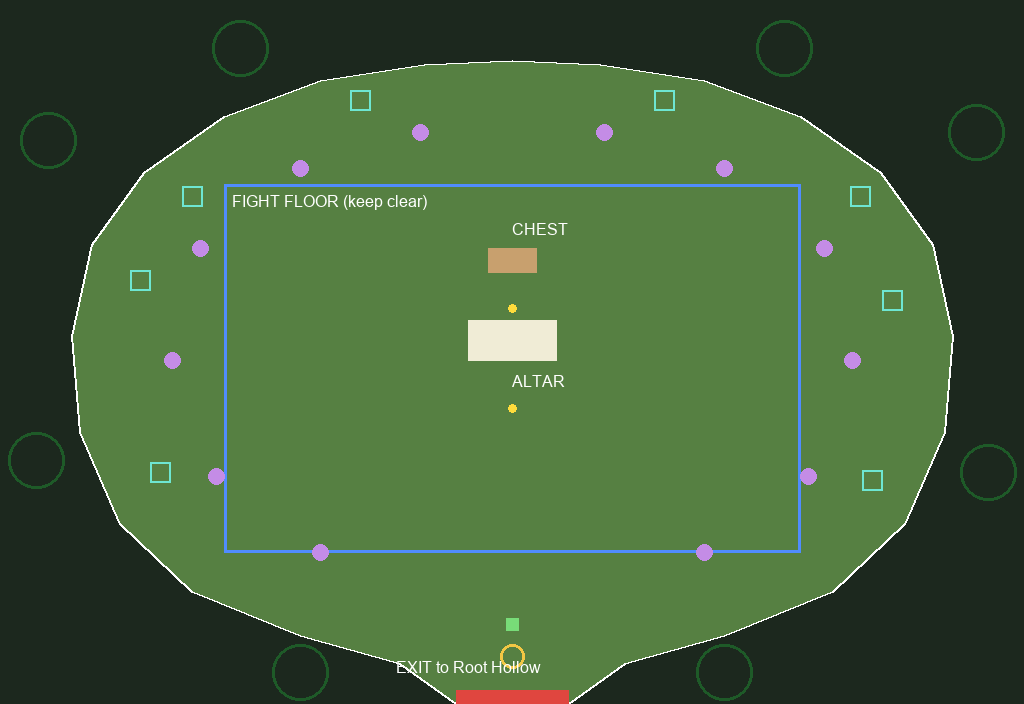
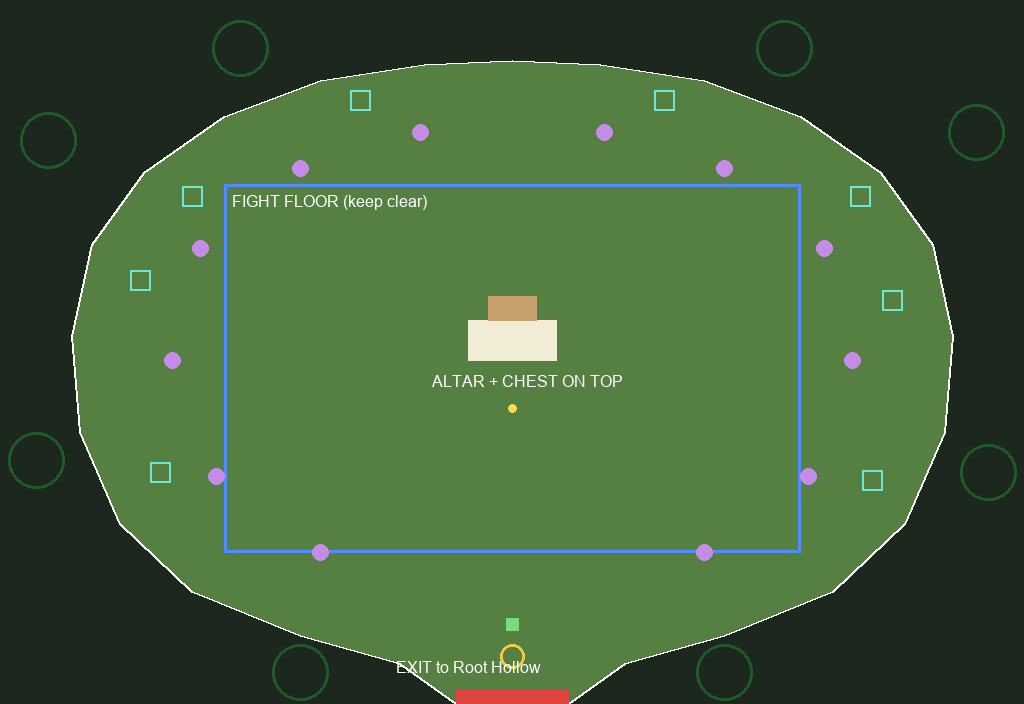
Hollow Trial: the chest sits on top of the altar; one E at the altar starts the trial, then opens the chest

Changed region(s): [[0.4688, 0.3125, 0.5625, 0.4688], [0.4062, 0.5312, 0.625, 0.5625]]

diff --git a/docs/CODEX_TASK_hollow_trial.md b/docs/CODEX_TASK_hollow_trial.md
@@ -12,7 +12,7 @@ Guide: **`docs/previews/hollow_trial_v1/walkable_guide.png`** (2x) and the numbe
 - **One way in and out:** the bottom edge, x 228-284 (the hero arrives from Root Hollow walking north and enters at the bottom). No other exit: it is a dead end, surrounded by forest.
 - **Walkable clearing:** a broad rounded clearing (outline in `layout.json`), about 440x320, dirt and worn grass with old flagstones near the centre. The **fight floor [112, 92, 288x184] stays completely open**: flush ground cover only, nothing that hides a gold or red warning (Boar charges cross it; Warden lines are 150 px long).
 - **Altar** in the middle, feet at (256, 180), base about 44x20: an old rune-stone altar, waist high, with a socket ring on top. Two states: **dark** (rune grooves dull) and **lit** (rune grooves teal-white, a soft upward glow). **No gold and no red** (combat cue colours), and keep the lit state teal so it never reads as a warning.
-- **Chest** just north of the altar, feet at (256, 136), base about 24x12: an old root-bound chest, **closed** and **open** states, same canvas and anchor. It can reuse the forest chest style if it fits.
+- **Chest ON TOP of the altar** (owner, 2026-10-31): an old root-bound chest, about 24x12, sitting on the altar's top. **closed** and **open** states, same canvas and anchor. Its anchor is at the altar's base line, feet (256, 181) (one pixel below the altar's feet so it always draws in front of the altar), so the canvas includes the altar's height under the chest. The hero uses both from the altar's stand (256, 204): E starts the trial before a win and opens the chest after it.
 - **Rim:** many **glowing rocks** (8 slots, teal rune light like the Root Hollow stones), **bushes** between them, **trees outside the outline** (8 slots) framing the room, roots and ferns at the edges. Spacious inside, dense outside.
 - **Entry seal:** the knot of roots that already closes Root Hollow's shortcut (`root_hollow_barrier_closed/open`) is reused at this room's entry: closed while a wave is alive, open otherwise. If it does not fit the bottom edge, propose a matching variant.
 
@@ -29,16 +29,16 @@ Guide: **`docs/previews/hollow_trial_v1/walkable_guide.png`** (2x) and the numbe
    - Trial won: the altar lights fully (lit state), a column of teal light, then the chest is ready (a faint shimmer on its lock).
    - Chest open: the existing chest-open effect, then the existing **Aspect reward card** (`item_received` kind `aspect`).
    - Trial failed (hero falls): the altar dims, the rune circle fades.
-5. **UI**: a wave banner ("WAVE 1 / 3", "WAVE 2 / 3", "FINAL WAVE"), "TRIAL COMPLETE", a small "mobs left" readout in the existing fight chip style, the altar hint ("E  Begin the trial", only while idle), the chest hint after a win. Same UI kit and fonts as the rest.
+5. **UI**: a wave banner ("WAVE 1 / 3", "WAVE 2 / 3", "FINAL WAVE"), "TRIAL COMPLETE", a small "mobs left" readout in the existing fight chip style, the altar hint ("E  Begin the trial" while idle, "E  Open the chest" after a win, nothing during a try). Same UI kit and fonts as the rest.
 6. **Sound**: altar activate, entry roots close/open, spawn warning, wave start (low horn or drum), wave clear chime, trial complete, trial failed, chest open (exists: `chest_open.wav`). Warnings stay louder than everything else; credits honest as always.
 7. **Tests and captures**: smoke test that every frame and effect key used exists; real-renderer captures (no fixtures once the core exists) of: the empty room, the altar dark and lit, a spawn warning, a wave in progress with a Warden, the wave banner, the win, the open chest and reward card. Full harness at the end.
 
 ## Interface (built by Claude on 2026-10-31: `core/trial.gd`, contract in `docs/architecture.md` "Trial rooms"; ask if anything is missing)
 
-- Objects in the scene data: `altar` (kind `altar`, stand (256, 204)) and `trial_chest` (kind `chest`, stand (256, 154)); interactions as today (`interact_target`, `interact_kind`).
+- Objects in the scene data: only `altar` (kind `altar`, stand (256, 204)): E there starts the trial before a win and opens the chest on top after it; interactions as today (`interact_target`, `interact_kind`).
 - Snapshot `trial`: `{state: idle | starting | wave | between | won | failed, wave (1-3), waves 3, alive (mobs left in the wave), next_tick (when the next wave or spawn comes), sealed (entry closed)}`.
 - Events: `trial_started`, `trial_spawn_warned` {wave, positions, arrive_tick}, `trial_wave_started` {wave}, `trial_wave_cleared` {wave}, `trial_won`, `trial_failed`, plus the usual `flag_set` (`cleared_hollow_trial`) and `item_received` (the Aspect).
-- Prop states: altar `when: "flag:cleared_hollow_trial"` -> lit; chest `when: "flag:trial_chest_opened"` -> open; entry roots `when: "trial:sealed"` -> closed (a new state key Claude adds).
+- Prop states: altar `when: "flag:cleared_hollow_trial"` -> lit; chest (prop `trial_chest`, feet (256, 181)) `when: "flag:trial_chest_opened"` -> open; entry roots `when: "trial:sealed"` -> closed (a new state key Claude adds).
 - Mobs come from the core like every encounter (Mossling, Boar, Warden; summoned rules unchanged). Presentation never spawns or positions a rules-bearing mob.
 
 ## Not yours / not decided

diff --git a/docs/architecture.md b/docs/architecture.md
@@ -489,7 +489,7 @@ Current tuning: boss HP 380, approach speed 0.5 px/tick, initial delay 60 ticks,
 
 A layered scene may carry a `trial` block (`data/scenes/hollow_trial_layered_props.json`): `altar` and `chest` (object ids), `encounter` (a MANAGED encounter row of the scene, `"managed": true`, no mobs of its own), `flag` (`cleared_hollow_trial`), `chest_flag` (`trial_chest_opened`), `start_ticks`, `warn_ticks`, `between_ticks`, `max_attackers`, `spawn_points`, `spawn_clearance`, `waves` [{groups: [{after (ticks into the wave), mobs: [types]}]}], `reward` (an `item_received` row), `sealed_text`.
 
-- **Flow:** E on the altar (armed hero, trial idle) -> `trial_started` {waves, first_wave_tick}, the entry is sealed -> after `start_ticks` `trial_wave_started` {wave, waves} -> each group: `trial_spawn_warned` {wave, positions, types, arrive_tick} at the spawn points farthest from the hero (never within `spawn_clearance`), the mobs appear at `arrive_tick` (`mob_alerted`, state alert then chase) -> the last mob of the wave falls: `trial_wave_cleared` {wave, waves} -> `between_ticks` later the next wave -> after the last: `trial_won`, `flag_set` (the trial flag; the altar's `flag:` prop state lights it), the entry opens. E on the chest after a win: `flag_set` (chest flag), `chest_opened` {object_id}, `item_received` (the reward), once.
+- **Flow:** E on the altar (armed hero, trial idle) -> `trial_started` {waves, first_wave_tick}, the entry is sealed -> after `start_ticks` `trial_wave_started` {wave, waves} -> each group: `trial_spawn_warned` {wave, positions, types, arrive_tick} at the spawn points farthest from the hero (never within `spawn_clearance`), the mobs appear at `arrive_tick` (`mob_alerted`, state alert then chase) -> the last mob of the wave falls: `trial_wave_cleared` {wave, waves} -> `between_ticks` later the next wave -> after the last: `trial_won`, `flag_set` (the trial flag; the altar's `flag:` prop state lights it), the entry opens. E on the chest after a win (in the Hollow Trial the chest stands on the altar and `chest` is the altar object, so the same E opens it): `flag_set` (chest flag), `chest_opened` {object_id}, `item_received` (the reward), once.
 - **Falling** in a try: at the respawn every encounter resets as before; the managed one loses all its mobs, and `trial_failed` {wave} follows; the altar can start a new try. A won trial stays won after CONTINUE (`set_story_flags`).
 - **Sealed:** while a try runs (starting, waves and the pauses between them) the scene's exits are shut (`exit_blocked` with `sealed_text`) and props with `"when": "trial:sealed"` show their `on_type` (the entry roots close; new prop state prefix `trial:<tag>`, `PropScene.state_holds`, built with `SceneDefs.build_obstacles(..., trial tags)`).
 - **Managed encounter (`core/mob_field.gd`):** its mobs come from `MobField.add_mob`, it never clears itself, never leashes, sets no `killed_*` flags (each kill pays EXP and rolls its drop), allows `max_attackers` (4 in the trial) attackers at once, and is emptied by a reset. `alive_in(encounter_id)`, `set_max_attackers`, `rest` (quiet again after a win).

diff --git a/docs/PLAN_hollow_trial.md b/docs/PLAN_hollow_trial.md
@@ -62,3 +62,7 @@ Scene `hollow_trial_layered`, 512x352, entered from Root Hollow's upper-left exi
 ## Core built (2026-10-31, Claude)
 
 `core/trial.gd` + a managed encounter in `core/mob_field.gd` + ExploreCore hooks; the room `hollow_trial_layered` is registered with stand-in props (forest pedestal as the altar, forest chest, rune stones, rim trees, the root knot at the entry); Root Hollow's upper-left exit now leads here (the village's `return` entry stays: the Woodland uses it). Tests: `tests/core/test_hollow_trial.gd` (10). Still open: the ground painting and real props (Codex), the chest's Aspect (owner; a 3-herb placeholder for now), the presentation wiring (Codex), the feel and numbers (owner, by play).
+
+## Chest on top of the altar (owner, 2026-10-31)
+
+The chest sits on the altar's top (prop `trial_chest`, feet (256, 181), one pixel in front of the altar). There is one object, the altar: E there starts the trial before a win and opens the chest after it. Layout and guide updated.
